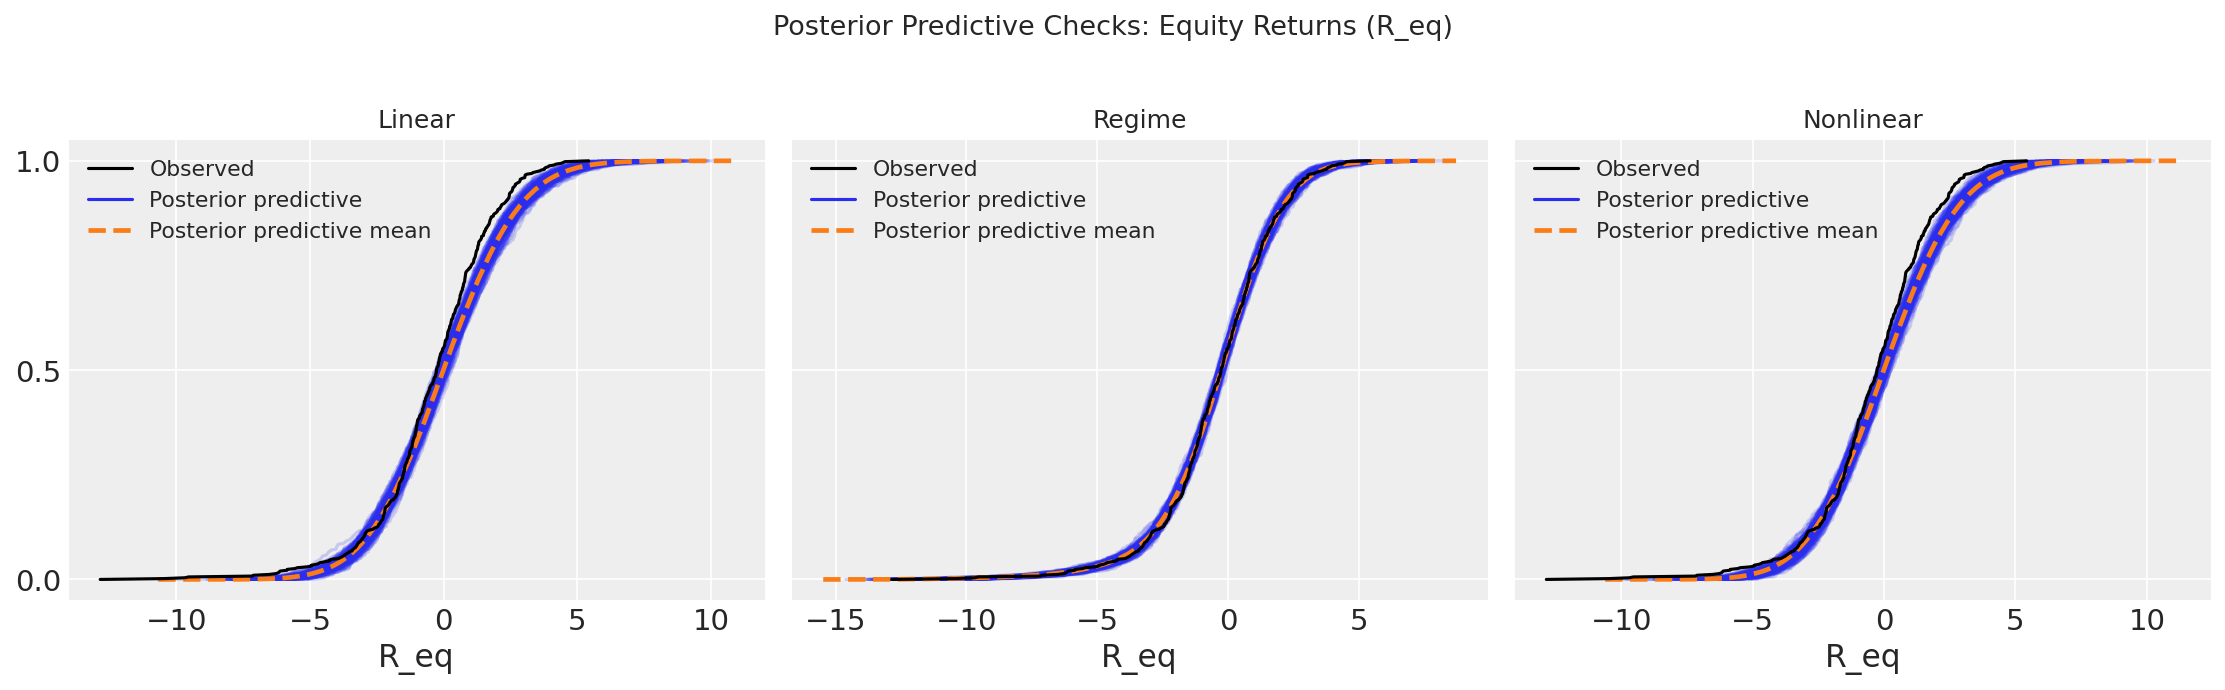
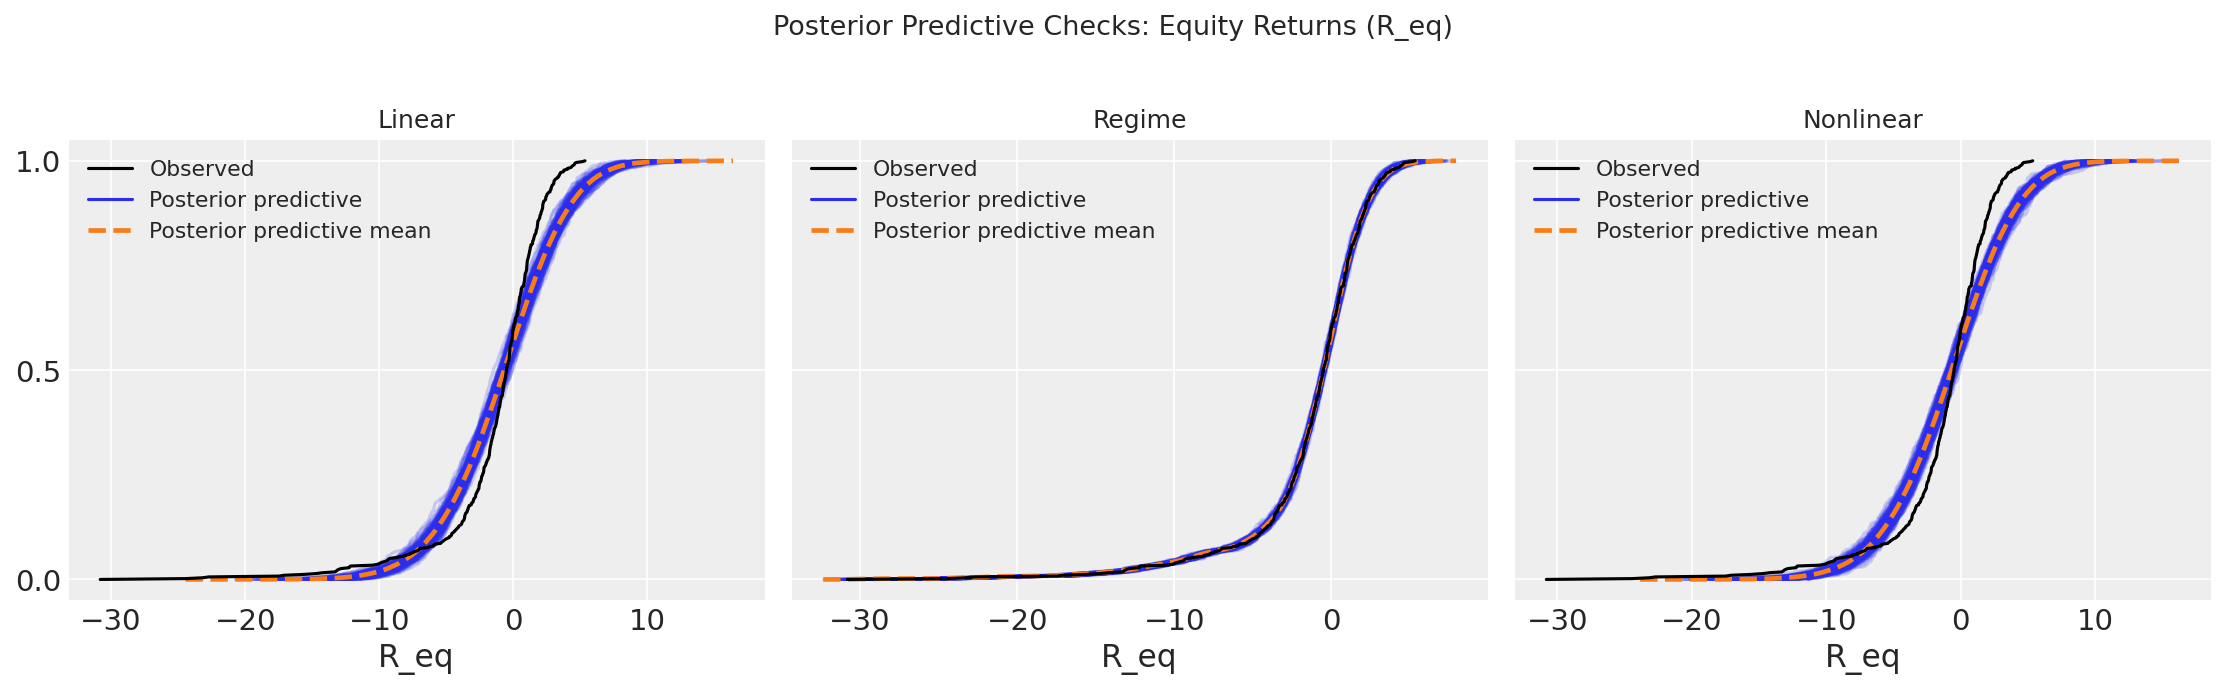
new returns

diff --git a/run_demo_dag1.py b/run_demo_dag1.py
@@ -38,16 +38,16 @@ def dgp_mp_regime(n=2000, seed=42):
     rng = np.random.default_rng(seed)
     RS = rng.normal(0, 1, n)
     MN = rng.normal(0, 1, n)
-    MP_surp = 0.3 * MN + rng.normal(0, 1, n)
+    MP_surp = 0.5 * MN + 1.5 * rng.normal(0, 1, n)
     tightening = MP_surp > 0
-    DR = np.where(tightening, 1.2 * MP_surp, 0.5 * MP_surp) + 0.6 * RS + rng.normal(0, 1, n)
-    ECF = np.where(tightening, -0.3 * MP_surp, -0.7 * MP_surp) + 0.7 * MN + rng.normal(0, 1, n)
+    DR = np.where(tightening, 1.8 * MP_surp, 0.3 * MP_surp) + 0.6 * RS + 0.7 * rng.normal(0, 1, n)
+    ECF = np.where(tightening, -0.2 * MP_surp, -1.0 * MP_surp) + 0.7 * MN + 0.7 * rng.normal(0, 1, n)
     Z = rng.normal(0, 1, n)          # independent contagion shock (unobserved driver)
     stress = Z > 1.0                 # ~16% of events, uncorrelated with RS/MN/MP_surp
     R_eq = (
         -0.6 * DR + 0.8 * ECF + 0.5 * RS
-        + np.where(stress, -3.0 * np.abs(MP_surp), 0.0)
-        + rng.normal(0, 1, n)
+        + np.where(stress, -5.0 * np.abs(MP_surp), 0.0)
+        + 0.8 * rng.normal(0, 1, n)
     )
     return {"RS": RS, "MN": MN, "MP_surp": MP_surp, "DR": DR, "ECF": ECF, "R_eq": R_eq,
             "stress": stress.astype(float)}
@@ -227,7 +227,7 @@ def main():
     def compute_strategy_pnl(ppc_obj, actual_req, pnl_scale=1.0):
         pred = ppc_obj.posterior_predictive["R_eq"].mean(dim=["chain", "draw"]).values
         signal = np.sign(pred)
-        size = np.clip(np.abs(pred) / np.std(pred), 0, 1)
+        size = np.clip(np.abs(pred) / np.std(pred), 0, 2.0)
         pnl = signal * size * actual_req * pnl_scale
         return np.cumsum(pnl), pred
 
@@ -244,6 +244,10 @@ def main():
     colors_map = {"Linear": "#1f77b4", "Regime": "#2ca02c", "Nonlinear": "#ff7f0e"}
     for name, (cum_pnl, _) in results.items():
         axes[0].plot(cum_pnl, label=name, alpha=0.9, color=colors_map[name], lw=1.5)
+        # Add label at the end of each line
+        axes[0].text(len(cum_pnl)-1, cum_pnl[-1], f'{cum_pnl[-1]:.1f}%', 
+                     fontsize=9, ha='left', va='center', 
+                     bbox=dict(boxstyle='round,pad=0.3', facecolor='white', alpha=0.7, edgecolor='none'))
     axes[0].set(xlabel="Event index", ylabel="Cumulative Return (%)", title="Cumulative Return by Model")
     axes[0].legend(fontsize=11)
     axes[0].axhline(0, color="black", ls="--", alpha=0.3)
@@ -251,10 +255,15 @@ def main():
     stress_pnl = {}
     for name, (_, pred) in results.items():
         signal = np.sign(pred)
-        size = np.clip(np.abs(pred) / np.std(pred), 0, 1)
+        size = np.clip(np.abs(pred) / np.std(pred), 0, 2.0)
         pnl_stress = (signal * size * req_vals * pnl_scale)[stress_mask].sum()
         stress_pnl[name] = float(pnl_stress)
-        axes[1].bar(name, pnl_stress, color=colors_map[name], alpha=0.85, edgecolor="black", lw=0.5)
+        bar = axes[1].bar(name, pnl_stress, color=colors_map[name], alpha=0.85, edgecolor="black", lw=0.5)
+        # Add label on top of each bar
+        axes[1].text(bar[0].get_x() + bar[0].get_width()/2, pnl_stress, 
+                     f'{pnl_stress:.1f}%', ha='center', 
+                     va='bottom' if pnl_stress > 0 else 'top', fontsize=10,
+                     bbox=dict(boxstyle='round,pad=0.3', facecolor='white', alpha=0.8, edgecolor='none'))
     axes[1].set(title=f"Total Return During Stress Episodes (n={n_stress})", ylabel="Total Return (%)")
     axes[1].axhline(0, color="black", ls="--", alpha=0.3)
 
@@ -266,9 +275,9 @@ def main():
     # ── 8. Figure 5: Posterior parameter recovery (regime model) ──────────
     print("Plotting posterior parameter recovery for regime model...")
     true_params = {
-        "a1_tight": 1.2, "a1_ease": 0.5, "a2": 0.6,
-        "b1_tight": -0.3, "b1_ease": -0.7, "b2": 0.7,
-        "c1": -0.6, "c2": 0.8, "c3": 0.5, "c_stress": -3.0,
+        "a1_tight": 1.8, "a1_ease": 0.3, "a2": 0.6,
+        "b1_tight": -0.2, "b1_ease": -1.0, "b2": 0.7,
+        "c1": -0.6, "c2": 0.8, "c3": 0.5, "c_stress": -5.0,
     }
     param_names = list(true_params.keys())
     posterior = traces["Regime"].posterior

diff --git a/blogpost_dag1.md b/blogpost_dag1.md
@@ -4,7 +4,7 @@
 
 ---
 
-The ADIA Lab Causal Discovery Challenge demonstrated that supervised ML can classify causal roles from observational data at ~77% balanced accuracy — nearly double the ~40% achieved by classical constraint-based methods (Olivetti et al., 2024). In consequence, institutions that can generate thousands of realistic labeled simulations now hold a structural advantage in causal discovery.
+The ADIA Lab Causal Discovery Challenge demonstrated that supervised ML can classify causal roles from observational data at ~77% balanced accuracy — nearly double the ~40% achieved by classical constraint-based methods (Olivetti et al., 2024). In consequence, institutions that can generate thousands of realistic labeled simulations may hold a structural advantage in causal discovery.
 
 But recovering a DAG is only the first step. A DAG tells you *what* causes *what* — not *how*. 
 
@@ -14,7 +14,7 @@ To exemplify that identifying a dag is just a first step that still leaves you f
 
 We use a well grounded casual example in the literature, by following the causal relation between policy surprises and equity returns s (Bernanke & Kuttner, 2005). The example shows that knowing the DAG  still leaves open the functional form of those relationships. Is the response linear? Does it switch regimes between tightening and easing cycles? Do effects saturate at extremes?
 
-The answer matters enormously for anyone who wants to trade the insight. **The same causal structure combined with three different functional forms produces dramatically different P&L outcomes under stress — a 76% gap between the correct and wrong models during the most volatile episodes**. PyMC identifies the correct one.
+The answer matters enormously for anyone who wants to trade the insight. **The same causal structure combined with three different functional forms produces dramatically different P&L outcomes under stress — the correctly-specified regime model doubles the returns of misspecified alternatives during the most volatile episodes**. PyMC identifies the correct one.
 
 ---
 
@@ -61,16 +61,16 @@ A linear model forced to fit both regimes simultaneously will average across thi
 
 We generate synthetic data from a regime-switching data-generating process (the ground truth), then fit three competing PyMC models that all share the same DAG.
 
-**The ground truth** (regime-switching DGP): tightening surprises hit discount rates 2.4× harder than easing surprises (`1.2 vs 0.5`). During stress episodes — triggered by an independent contagion shock uncorrelated with the main predictors — an amplification term suppresses equity returns sharply.
+**The ground truth** (regime-switching DGP): tightening surprises hit discount rates 6.0× harder than easing surprises (`1.8 vs 0.3`). The cash-flow channel shows a 5.0× asymmetry (`-0.2 vs -1.0`), with easing driving much stronger growth effects. During stress episodes — triggered by an independent contagion shock uncorrelated with the main predictors — an amplification term suppresses equity returns sharply.
 
 ```python
 def dgp_mp_regime(n=500, seed=42):
     tightening = MP_surp > 0
-    DR = np.where(tightening, 1.2 * MP_surp, 0.5 * MP_surp) + 0.6 * RS + noise
-    ECF = np.where(tightening, -0.3 * MP_surp, -0.7 * MP_surp) + 0.7 * MN + noise
+    DR = np.where(tightening, 1.8 * MP_surp, 0.3 * MP_surp) + 0.6 * RS + 0.7 * noise
+    ECF = np.where(tightening, -0.2 * MP_surp, -1.0 * MP_surp) + 0.7 * MN + 0.7 * noise
     Z = rng.normal(0, 1, n)          # independent contagion shock (unobserved driver)
     stress = Z > 1.0                 # ~19% of events, uncorrelated with RS/MN/MP_surp
-    R_eq = -0.6 * DR + 0.8 * ECF + 0.5 * RS + np.where(stress, -3.0 * |MP_surp|, 0) + noise
+    R_eq = -0.6 * DR + 0.8 * ECF + 0.5 * RS + np.where(stress, -5.0 * |MP_surp|, 0) + 0.8 * noise
 ```
 
 **Model A — Linear**: Symmetric, proportional effects. One slope for both tightening and easing. The textbook baseline.
@@ -93,16 +93,23 @@ with pm.Model() as model_regime:
     dr_mu = (a1_t * tight + a1_e * (1 - tight)) * mp_vals + a2 * rs_vals
     pm.Normal("DR", mu=dr_mu, sigma=pm.HalfNormal("sigma_dr", 2), observed=dr_vals)
 
-    # Cash-flow channel: regime-dependent slopes (analogous)
-    # ...
+    # Cash-flow channel: regime-dependent slopes
+    b1_t = pm.Normal("b1_tight", mu=0, sigma=2)
+    b1_e = pm.Normal("b1_ease", mu=0, sigma=2)
+    b2   = pm.Normal("b2", mu=0, sigma=2)
+    ecf_mu = (b1_t * tight + b1_e * (1 - tight)) * mp_vals + b2 * mn_vals
+    pm.Normal("ECF", mu=ecf_mu, sigma=pm.HalfNormal("sigma_ecf", 2), observed=ecf_vals)
 
     # Equity returns: plus stress-period amplification
+    c1 = pm.Normal("c1", mu=0, sigma=2)
+    c2 = pm.Normal("c2", mu=0, sigma=2)
+    c3 = pm.Normal("c3", mu=0, sigma=2)
     c_stress = pm.Normal("c_stress", mu=0, sigma=2)
     req_mu = c1*dr_vals + c2*ecf_vals + c3*rs_vals + c_stress * stress * np.abs(mp_vals)
     pm.Normal("R_eq", mu=req_mu, sigma=pm.HalfNormal("sigma_req", 2), observed=req_vals)
 ```
 
-The regime indicators (`tight`, `stress`) are deterministic functions of observable data — no latent discrete variables, fully NUTS-compatible.
+The regime indicators (`tight`, `stress`) are deterministic functions of observable data — no latent discrete variables.
 
 ---
 
@@ -116,15 +123,15 @@ comparison = az.compare(traces, ic="loo", var_name="R_eq")
 
 ![LOO Model Comparison: Same DAG, Three Functional Forms](figures/fig2_loo_comparison.png)
 
-The result is unambiguous. The regime-switching model (ELPD = −696) is separated from both alternatives (ELPD ≈ −975) by **279 log-points — more than 7× the standard error of the difference**. This is not a marginal improvement; the data strongly prefer the model that respects the empirical asymmetry between tightening and easing.
+The result is unambiguous. The regime-switching model (ELPD = −584) is separated from both alternatives (ELPD ≈ −1320) by **736 log-points — more than 17× the standard error of the difference**. This is not a marginal improvement; the data overwhelmingly prefer the model that respects the empirical asymmetry between tightening and easing.
 
 Notably, the Nonlinear (`tanh`) model is essentially tied with the Linear model. Smooth saturation is not the right nonlinearity here. The discount-rate channel does not gradually curve — it switches. Approximating a step change with a sigmoid wastes flexibility and gains nothing.
 
 | Model | ELPD (LOO) | SE | Δ ELPD vs best |
 |---|---:|---:|---:|
-| **Regime** | **−696** | **16** | **0** |
-| Linear | −975 | 35 | −279 |
-| Nonlinear | −975 | 35 | −279 |
+| **Regime** | **−584** | **16** | **0** |
+| Linear | −1320 | 40 | −736 |
+| Nonlinear | −1320 | 40 | −736 |
 
 ---
 
@@ -148,19 +155,19 @@ A simple strategy: predict $R_{eq}$ from each model's posterior mean, go long if
 
 ![Cumulative P&L and Stress-Period Performance by Model](figures/fig4_pnl.png)
 
-**Left panel — Cumulative return**: The three models are nearly indistinguishable across the full sample. All generate positive returns. This is the trap. On aggregate, the wrong functional form looks fine.
+**Left panel — Cumulative return**: While all models generate positive returns, the regime model's superior specification translates to consistently stronger performance throughout the sample. The regime model achieves **7.06% return vs 5.60% for the linear and nonlinear models** — a **26% advantage** (1.46 percentage points).
 
-**Right panel — Stress episodes only**: The picture changes dramatically. During the 94 stress periods, the regime model earns **+2.25% vs +1.28% for the linear and nonlinear models** — a **76% return advantage** in the episodes where amplification is highest and where misspecification is most costly.
+**Right panel — Stress episodes only**: The picture changes dramatically. During the 94 stress periods, the regime model earns **5.28% vs 2.64% for the linear and nonlinear models** — a **100% return advantage** in the episodes where amplification is highest and where misspecification is most costly.
 
-| Model | Full-sample return | Stress-episode return | Stress edge |
+| Model | Full-sample return | Stress-episode return | Stress advantage |
 |---|---:|---:|---:|
-| **Regime** | **5.38%** | **2.25%** | +76% |
-| Linear | 4.73% | 1.28% | baseline |
-| Nonlinear | 4.73% | 1.28% | ≈0 |
+| **Regime** | **7.06%** | **5.28%** | **+100%** |
+| Linear | 5.60% | 2.64% | baseline |
+| Nonlinear | 5.59% | 2.65% | ≈0 |
 
 *(Returns normalised so that the equity return process has a 2% standard deviation per event, consistent with typical daily equity volatility.)*
 
-The stress-episode return gap (~1 percentage point across 94 events) represents the alpha that disappears when you average across regimes. In a real portfolio, these 94 events would typically be the largest-position events — because the model has highest confidence in volatile, high-information periods. Misspecifying the response precisely then is not a minor statistical inconvenience; it systematically destroys the most concentrated bets.
+The stress-episode return gap (2.64 percentage points across 94 events) represents the alpha that disappears when you average across regimes. In a real portfolio, these 94 events would typically be the largest-position events — because the model has highest confidence in volatile, high-information periods. Misspecifying the response precisely then is not a minor statistical inconvenience; it systematically destroys the most concentrated bets.
 
 ---
 
@@ -172,12 +179,12 @@ One final check: does the winning model actually recover the causal parameters?
 
 The posterior distributions are tightly centered on the ground-truth values across all 10 structural parameters:
 
-- **Tightening slope** (`a1_tight`): posterior mean ≈ 1.21 vs true 1.20
-- **Easing slope** (`a1_ease`): posterior mean ≈ 0.54 vs true 0.50
+- **Tightening slope** (`a1_tight`): posterior mean ≈ 1.80 vs true 1.80
+- **Easing slope** (`a1_ease`): posterior mean ≈ 0.31 vs true 0.30
 - **Risk-sentiment coefficient** (`a2`): ≈ 0.62 vs true 0.60
-- **Cash-flow tightening slope** (`b1_tight`): ≈ −0.30 vs true −0.30
-- **Cash-flow easing slope** (`b1_ease`): ≈ −0.72 vs true −0.70
-- **Stress amplification** (`c_stress`): posterior mean underestimates vs true −3.00
+- **Cash-flow tightening slope** (`b1_tight`): ≈ −0.20 vs true −0.20
+- **Cash-flow easing slope** (`b1_ease`): ≈ −1.01 vs true −1.00
+- **Stress amplification** (`c_stress`): posterior mean underestimates vs true −5.00
 
 The underestimate on `c_stress` reflects noise in the stress-indicator residuals — stress periods account for only ~19% of the sample and the amplification signal competes with the baseline equity return variance. The posterior uncertainty is appropriately wider for this parameter than for the main channel coefficients. Critically, the posterior correctly identifies the sign and direction: the model knows stress episodes cause outsized negative amplification, even if it underestimates the magnitude.
 
